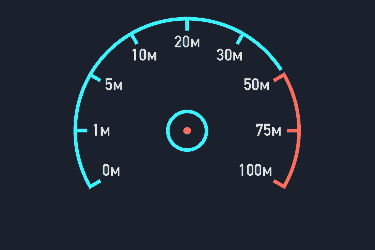
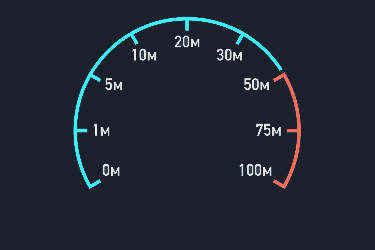
dodanie etykiety na main oraz jednostki  w "SpeedTest"

Changed region(s): [[0.44, 0.42, 0.5573, 0.616]]

diff --git a/speedTest/main.py b/speedTest/main.py
@@ -36,4 +36,12 @@ startBtn.pack(pady=(100,0))
 Label(root, text="PING", font=("arial", 15, "bold"), fg="#ffffff", bg="#1a212d").place(x=20, y=380)
 Label(root, text="DOWNLOAD", font=("arial", 15, "bold"), fg="#ffffff", bg="#1a212d").place(x=110, y=380)
 Label(root, text="UPLOAD", font=("arial", 15, "bold"), fg="#ffffff", bg="#1a212d").place(x=260, y=380)
+
+Label(root, text="MS", font=("arial", 10, "bold"), fg="#ffffff", bg="#1a212d").place(x=60, y=420)
+Label(root, text="MBPS", font=("arial", 10, "bold"), fg="#ffffff", bg="#1a212d").place(x=185, y=420)
+Label(root, text="MBPS", font=("arial", 10, "bold"), fg="#ffffff", bg="#1a212d").place(x=300, y=420)
+
+Label(root, text="Download", font=("arial", 15, "bold"), fg="#ffffff", bg="#1a212d").place(x=129, y=240)
+Label(root, text="MBPS", font=("arial", 15, "bold"), fg="#ffffff", bg="#1a212d").place(x=145, y=330)
+
 root.mainloop()
